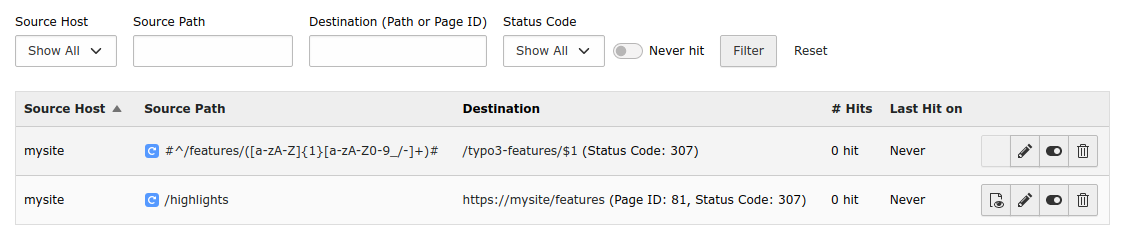
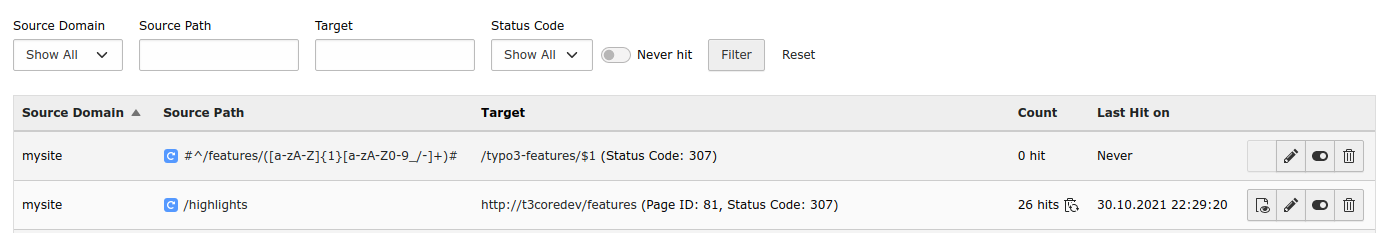
[TASK] Fix redirects label inconsistency
Different labels for various fields of a redirect record
were used in redirect list and redirect edit form.
For example, both "Destination" and "Target" were used
for the same field.

This patch unifies the labels, preferring labels
from the edit form (locallang_db.xlf).

This frees up some language labels which can be removed
in v12.

Resolves: #95832
Related: #96015
Releases: master, 11.5

diff --git a/Resources/Private/Templates/Management/Overview.html b/Resources/Private/Templates/Management/Overview.html
@@ -55,15 +55,15 @@
             <thead>
                 <tr>
                     <th>
-                        <f:render section="listHeaderSorting" arguments="{field: 'source_host', label: 'source_host', demand: demand}"/>
+                        <f:render section="listHeaderSorting" arguments="{field: 'source_host', label: 'sys_redirect.source_host', demand: demand}"/>
                     </th>
                     <th>
-                        <f:render section="listHeaderSorting" arguments="{field: 'source_path', label: 'source_path', demand: demand}"/>
+                        <f:render section="listHeaderSorting" arguments="{field: 'source_path', label: 'sys_redirect.source_path', demand: demand}"/>
                     </th>
-                    <th><f:translate key="LLL:EXT:redirects/Resources/Private/Language/locallang_module_redirect.xlf:destination"/></th>
+                    <th><f:translate key="LLL:EXT:redirects/Resources/Private/Language/locallang_db.xlf:sys_redirect.target"/></th>
                     <f:if condition="{showHitCounter}">
-                        <th><f:render section="listHeaderSorting" arguments="{field: 'hitcount', label: 'hits', demand: demand}"/></th>
-                        <th><f:render section="listHeaderSorting" arguments="{field: 'lasthiton', label: 'hit_last', demand: demand}"/></th>
+                        <th><f:render section="listHeaderSorting" arguments="{field: 'hitcount', label: 'sys_redirect.hitcount', demand: demand}"/></th>
+                        <th><f:render section="listHeaderSorting" arguments="{field: 'lasthiton', label: 'sys_redirect.lasthiton', demand: demand}"/></th>
                     </f:if>
                     <th></th>
                 </tr>
@@ -162,11 +162,11 @@
 <f:section name="listHeaderSorting">
     <f:if condition="{demand.orderField} === {field}">
         <f:then>
-            <a href="{f:be.uri(route:'site_redirects', parameters: '{action: \'overview\', demand: demand.parameters, orderField: field, orderDirection: demand.reverseOrderDirection}')}"><f:translate key="LLL:EXT:redirects/Resources/Private/Language/locallang_module_redirect.xlf:{label}"/></a>
+            <a href="{f:be.uri(route:'site_redirects', parameters: '{action: \'overview\', demand: demand.parameters, orderField: field, orderDirection: demand.reverseOrderDirection}')}"><f:translate key="LLL:EXT:redirects/Resources/Private/Language/locallang_db.xlf:{label}"/></a>
             <core:icon identifier="status-status-sorting-{demand.orderDirection}"/>
         </f:then>
         <f:else>
-            <a href="{f:be.uri(route:'site_redirects', parameters: '{action: \'overview\', demand: demand.parameters, orderField: field, orderDirection: demand.defaultOrderDirection}')}"><f:translate key="LLL:EXT:redirects/Resources/Private/Language/locallang_module_redirect.xlf:{label}"/></a>
+            <a href="{f:be.uri(route:'site_redirects', parameters: '{action: \'overview\', demand: demand.parameters, orderField: field, orderDirection: demand.defaultOrderDirection}')}"><f:translate key="LLL:EXT:redirects/Resources/Private/Language/locallang_db.xlf:{label}"/></a>
         </f:else>
     </f:if>
 </f:section>
@@ -177,7 +177,7 @@
         <input type="hidden" name="orderDirection" value="{demand.orderDirection}">
         <div class="row row-cols-auto align-items-end g-3 mb-4">
             <div class="col">
-                <label for="demand-source-host" class="form-label"><f:translate key="LLL:EXT:redirects/Resources/Private/Language/locallang_module_redirect.xlf:source_host"/></label>
+                <label for="demand-source-host" class="form-label"><f:translate key="LLL:EXT:redirects/Resources/Private/Language/locallang_db.xlf:sys_redirect.source_host"/></label>
                 <select id="demand-source-host" class="form-select" name="demand[source_host]" data-on-change="submit">
                     <option value=""><f:translate key="LLL:EXT:redirects/Resources/Private/Language/locallang_module_redirect.xlf:filter.source_host.showAll"/></option>
                     <f:for each="{hosts}" as="host">
@@ -190,7 +190,7 @@
                 <input type="text" id="demand-source-path" class="form-control" name="demand[source_path]" value="{demand.sourcePath}"/>
             </div>
             <div class="col">
-                <label for="demand-target" class="form-label"><f:translate key="LLL:EXT:redirects/Resources/Private/Language/locallang_module_redirect.xlf:filter.destination"/></label>
+                <label for="demand-target" class="form-label"><f:translate key="LLL:EXT:redirects/Resources/Private/Language/locallang_db.xlf:sys_redirect.target"/></label>
                 <input type="text" id="demand-target" class="form-control" name="demand[target]" value="{demand.target}"/>
             </div>
             <div class="col">

diff --git a/Documentation/Usage/Index.rst b/Documentation/Usage/Index.rst
@@ -26,10 +26,10 @@ List
 
 You will see a list of the existing redirects with the following columns labels.
 
-#.  **Source Host**
+#.  **Source Domain**
 #.  **Source Path**
-#.  **Destination**
-#.  **# Hits**: Number of "hits" (only if hit counter is on)
+#.  **Target**
+#.  **Count**: Number of "hits" (only if hit counter is on)
 #.  **Last Hit on**: When was the most recent redirect "hit"  (only if hit
     counter is on)
 #.  *Action buttons*: View page, edit, disable and delete |action_buttons_image|
@@ -200,7 +200,7 @@ the hit counter for a specific redirect and also see read-only statistics.
     Number of hits for this particular redirect. (How often was the page
     accessed which triggered this redirect?)
 
-.. confval:: Last Hit On
+.. confval:: Last Hit on
 
     :Field: lasthiton
     :Editable: read only
